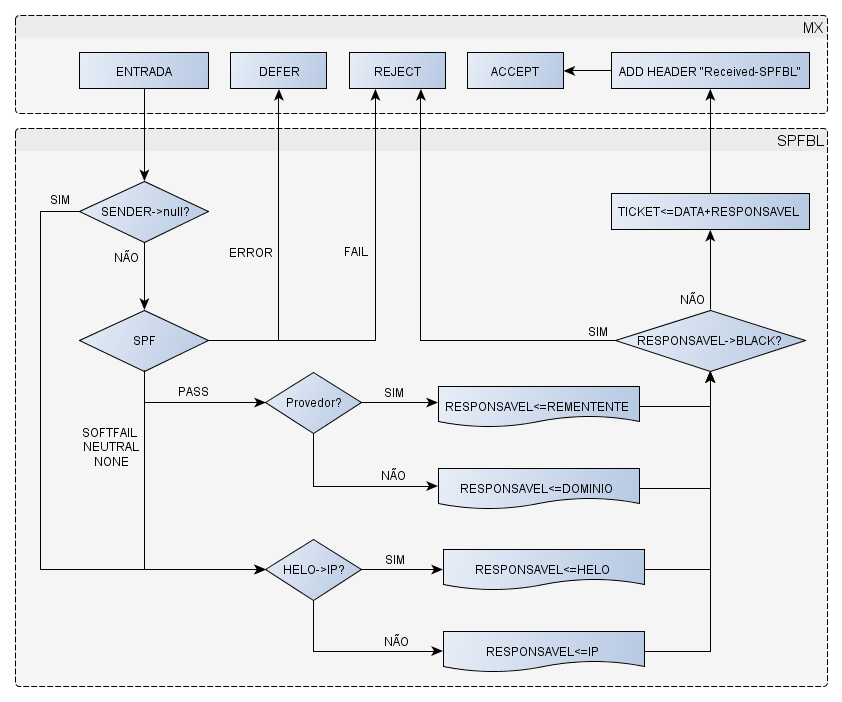
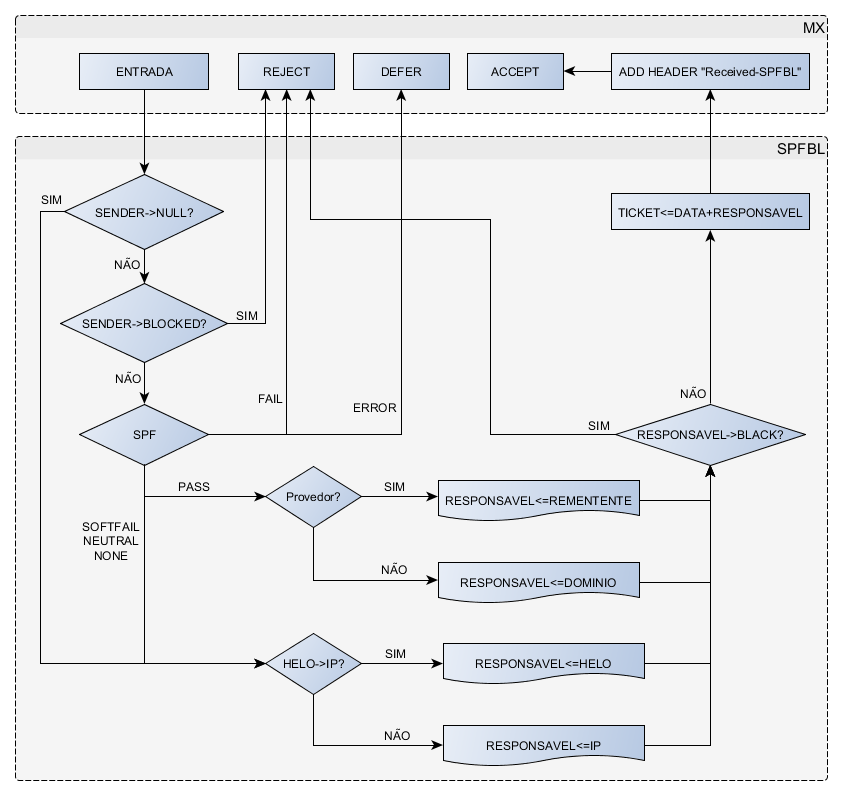
Atualização da documentação
Informações sobre a nova funcionalidade de bloqueio arbitrário.

diff --git a/README.md b/README.md
@@ -92,13 +92,41 @@ O SPFBL mantém em cache todos os registros SPF encontrados e procura mantê-los
 
 Quando o resultado da consulta SPFBL retorna um ticket, dentro dele segue informações sobre o responsável pelo envio e a data que a consulta foi realizada. Este ticket pode ser utilizado para formalizar uma denúncia, que contabiliza para o responsável o peso de denúncia. Cada denúncia expira em sete dias após a data da consulta e não pode ser feita após cinco dias da consulta.
 
+##### Bloqueio permanente de remetentes
+
+É possível bloquear remetentes permanentemente através da alteração de uma lista arbitrária.
+
+As opções de bloqueio são:
+
+* Caixa postal: apenas a parte que antecede o arroba.
+* Domínio: apenas a parte que precede o arroba.
+* Remetente: o endereço completo do remetente.
+
+Para visualizar a lista de bloqueios arbitrários:
+```
+user:~# ./spfblview.sh <remetente>
+EMPTY
+```
+
+Para adicionar um bloqueio arbitrário:
+```
+user:~# ./spfblblock.sh <remetente>
+OK
+```
+
+Para remover um bloqueio arbitrário:
+```
+user:~# ./spfblunblock.sh <remetente>
+OK
+```
+
 ### Funcionamento
 
 A seguir é mostrado como o SPFBL funciona internamente.
 
 ##### Respostas SPFBL
 
-O SPFBL retorna todos os qualificadores do SPF convencional mais um qualifidador novo, chamado LISTED:
+O SPFBL retorna todos os qualificadores do SPF convencional mais dois qualifidadores novos, chamados LISTED e BLOCKED:
 
 * PASS <ticket>: permitir o recebimento da mensagem.
 * FAIL: rejeitar o recebimento da mensagem e informar à origem o descumprimento do SPF.
@@ -106,6 +134,7 @@ O SPFBL retorna todos os qualificadores do SPF convencional mais um qualifidador
 * NEUTRAL <ticket>: permitir o recebimento da mensagem.
 * NONE <ticket>: permitir o recebimento da mensagem.
 * LISTED: rejeitar o recebimento da mensagem e informar à origem a listagem em blacklist por sete dias.
+* BLOCKED: rejeitar o recebimento da mensagem e informar à origem o bloqueio permanente.
 
 ##### Método de listagem
 
@@ -231,9 +260,12 @@ sudo java -jar SPFBL.jar 9875 512 >> log.001.txt &
 
 O serviço necessita da JVM versão 6 instalada, ou superior, para funcionar corretamente.
 
-Se tiver problemas ou dúvidas, consulte o suporte pelo endereço <leandro@allchemistry.com.br>.
-
 ### Futuro do SPFBL
 
 Existe várias evoluções possíveis para o serviço SPFBL. A evolução mais interessante, que está sendo discutida no momento, é a descentralização do processamento do SPFBL através de redes peer-to-peer.
 
+### Forum SPFBL
+
+Todas as discussões e dúvidas sobre o SPFBL estão sendo tratadas através do forum:
+
+![Forum SPFBL](https://groups.google.com/forum/#!forum/spfbl "Forum SPFBL")
